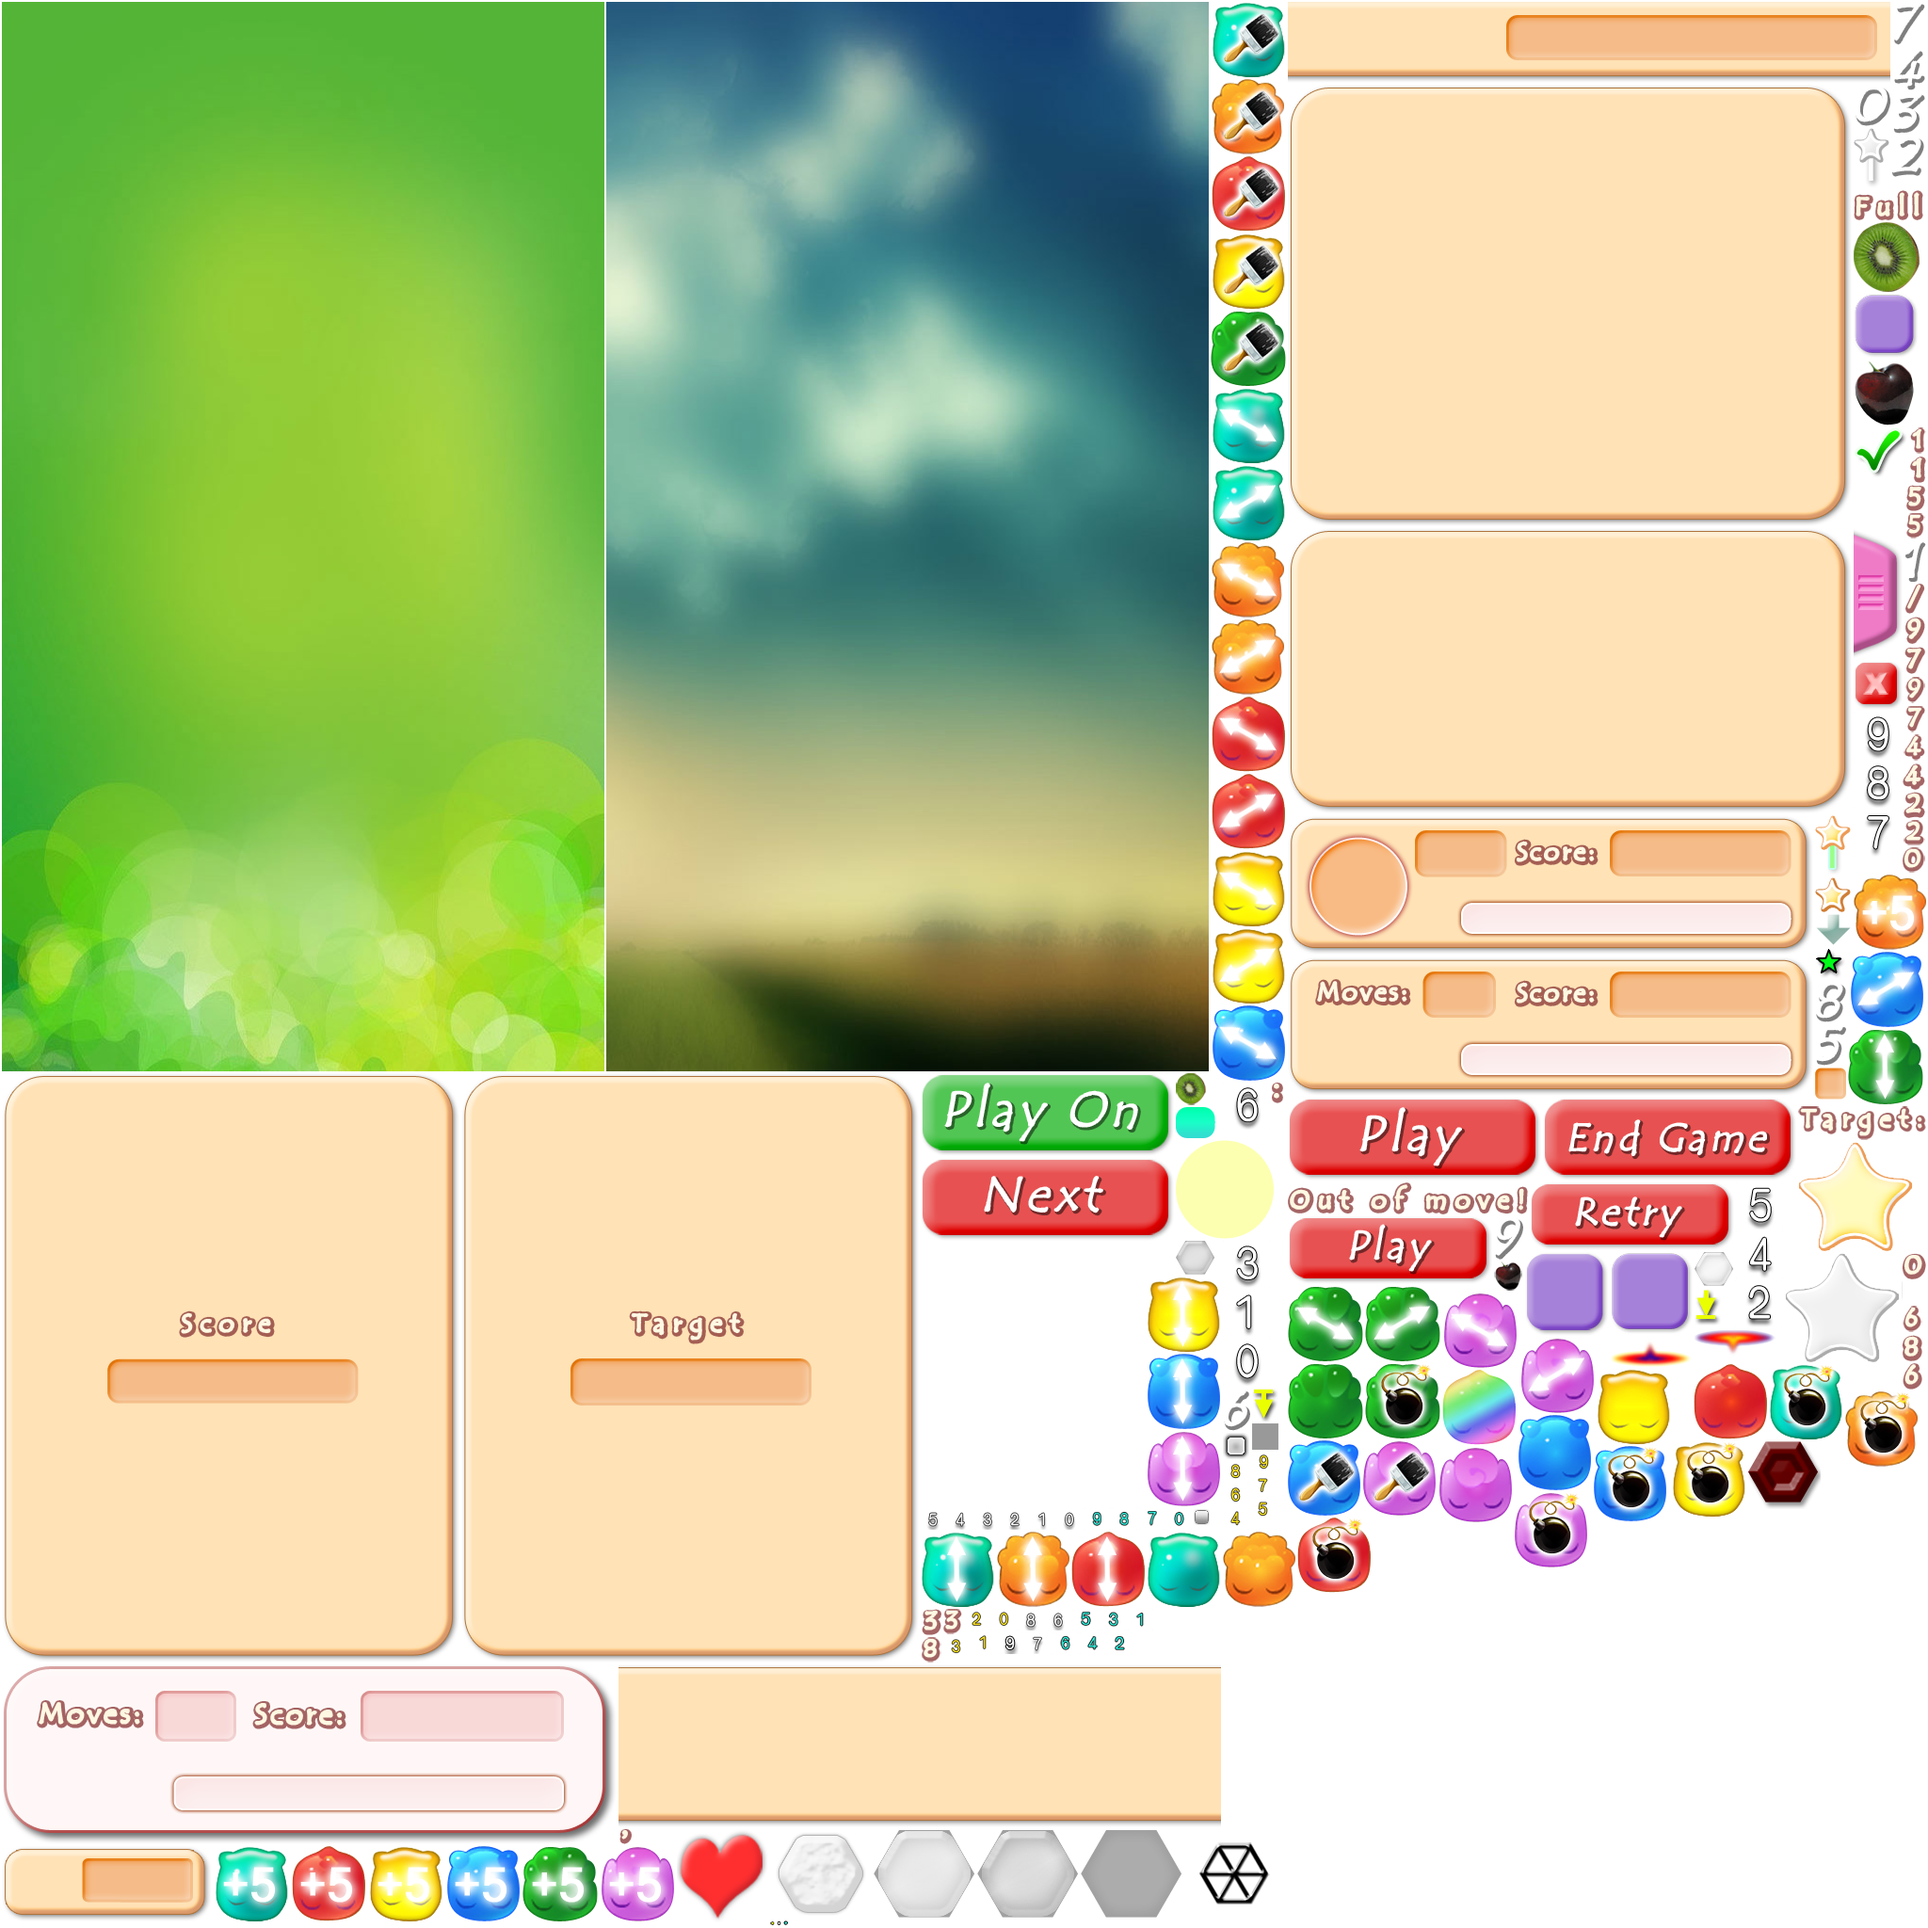
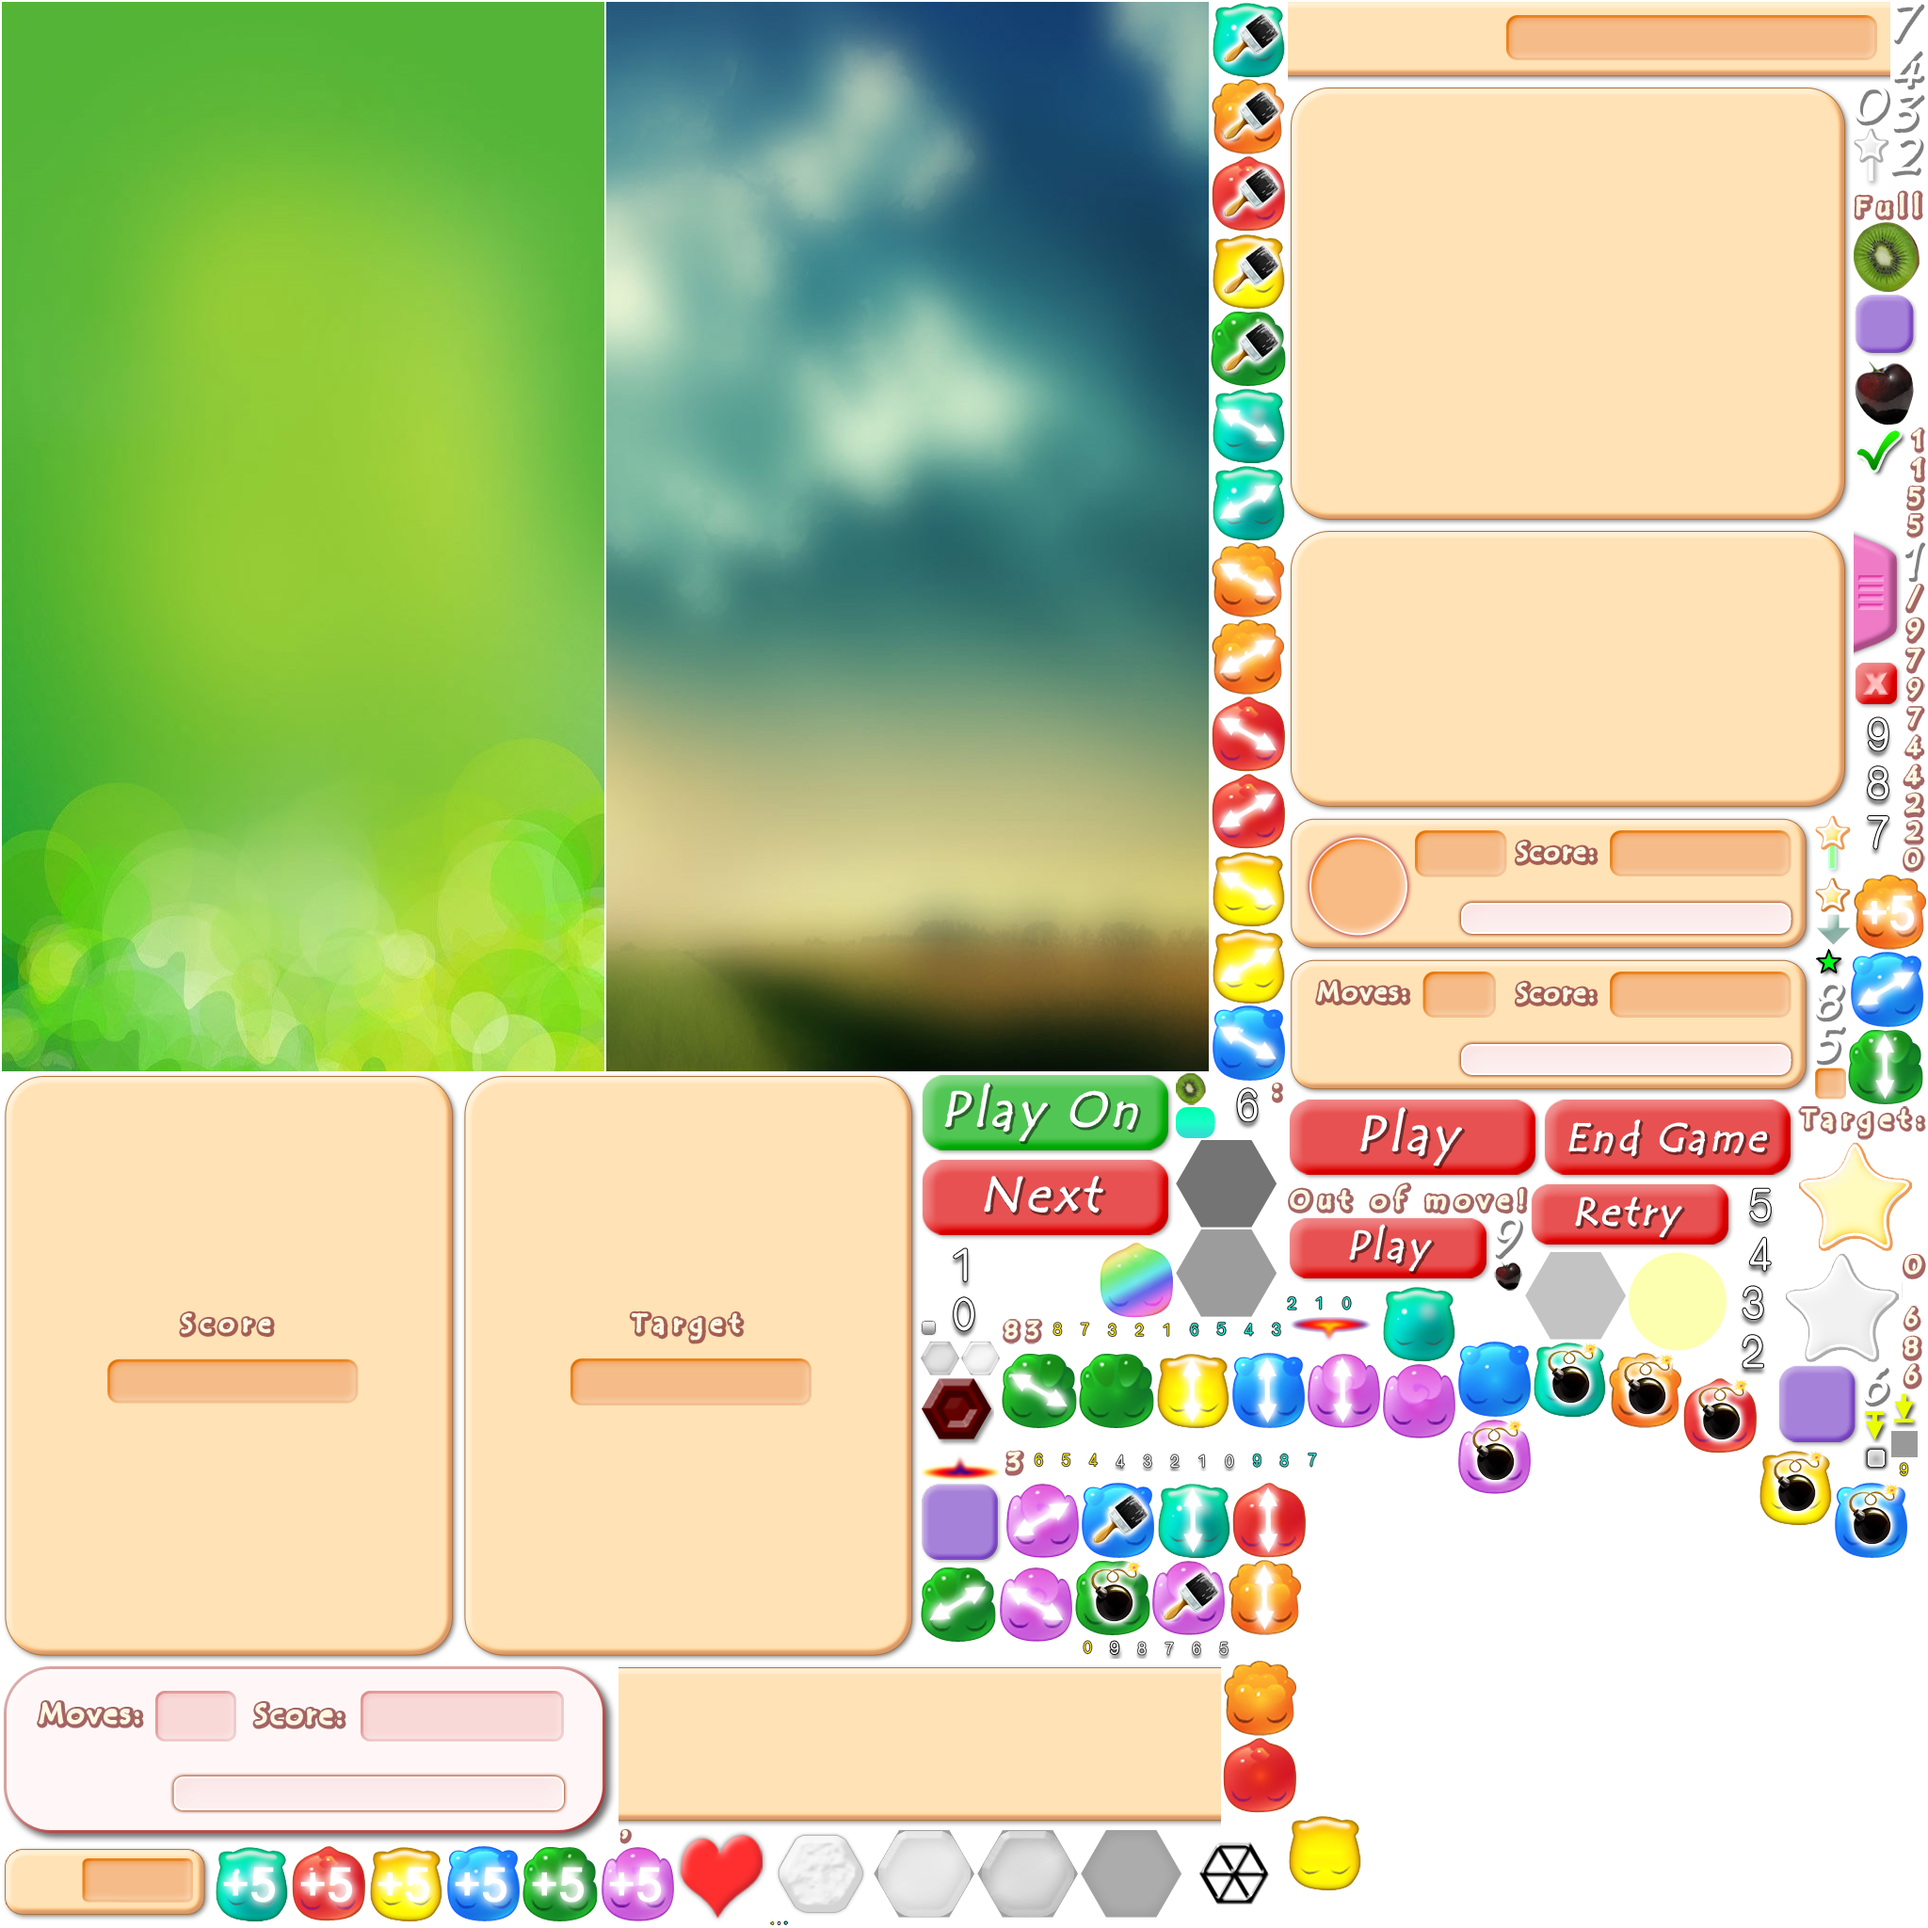
三个颜色的背景

Changed region(s): [[0.4688, 0.5938, 1.0, 1.0]]

diff --git a/ClientProject/Assets/CSharpScripts/GameLogic.cs b/ClientProject/Assets/CSharpScripts/GameLogic.cs
@@ -302,7 +302,14 @@ public class GameLogic
         }
         else
         {
-            m_gridBackImage[x, y].layer0.spriteName = "Grid";
+            if (x % 2 == 0)
+            {
+                m_gridBackImage[x, y].layer0.spriteName = "Grid" + (y % 3);
+            }
+            else
+            {
+                m_gridBackImage[x, y].layer0.spriteName = "Grid" + ((y + 1) % 3);
+            }
         }
 
         m_gridBackImage[x, y].layer0.transform.localPosition = new Vector3(GetXPos(x), -GetYPos(x, y), 0);
